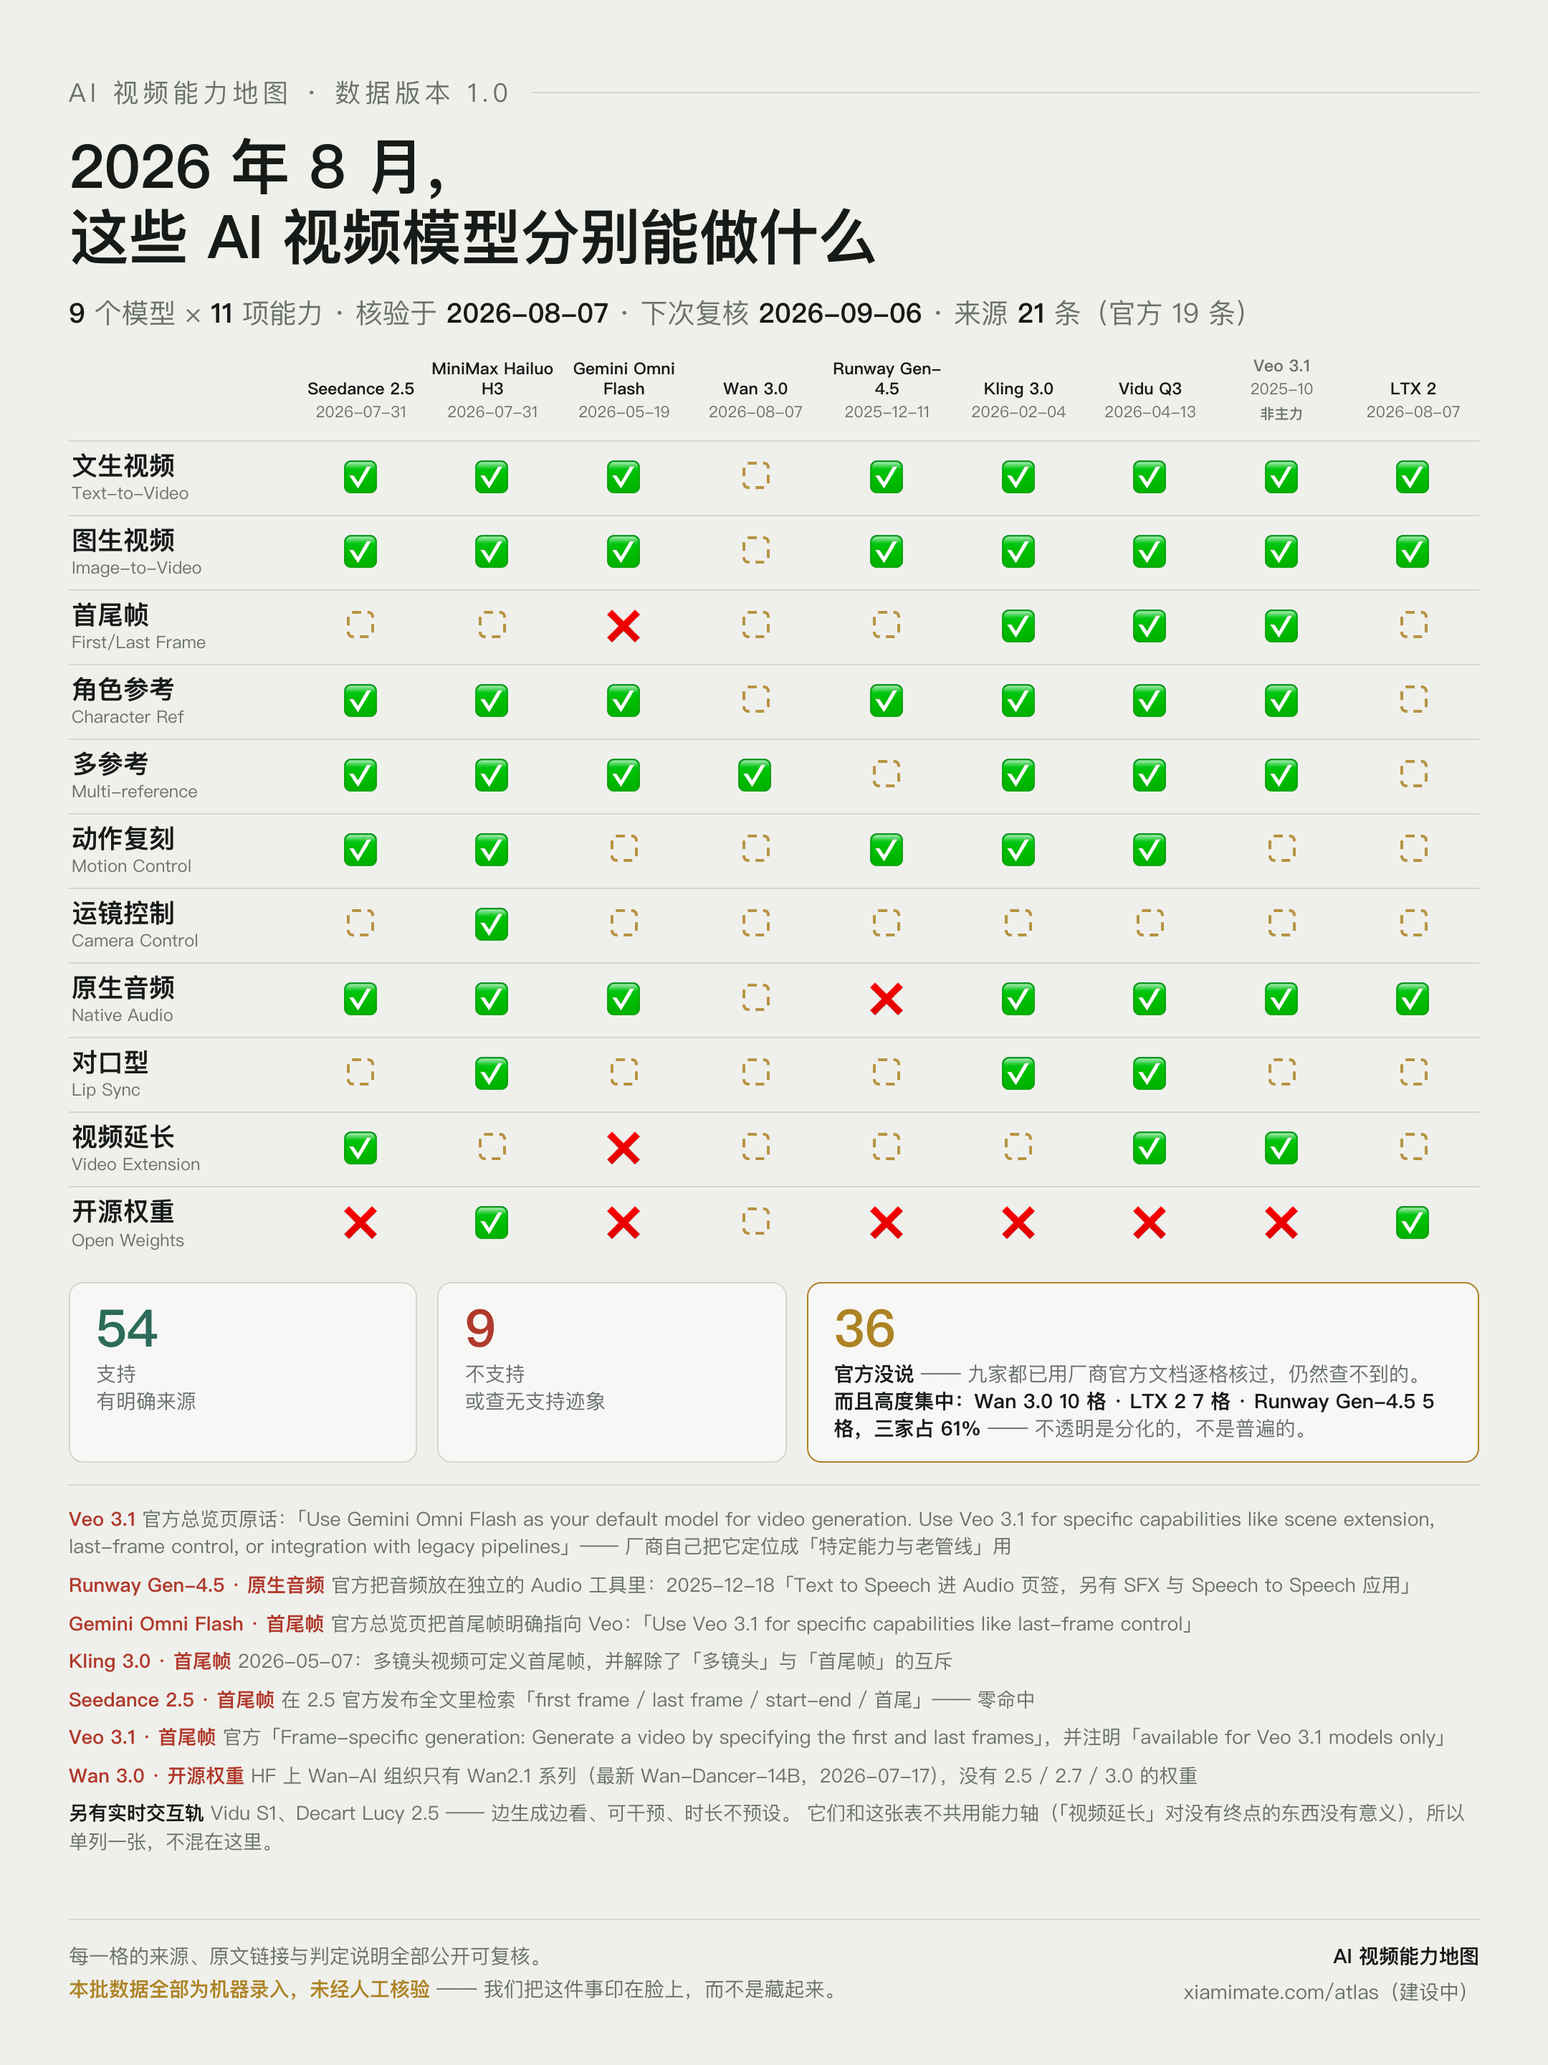
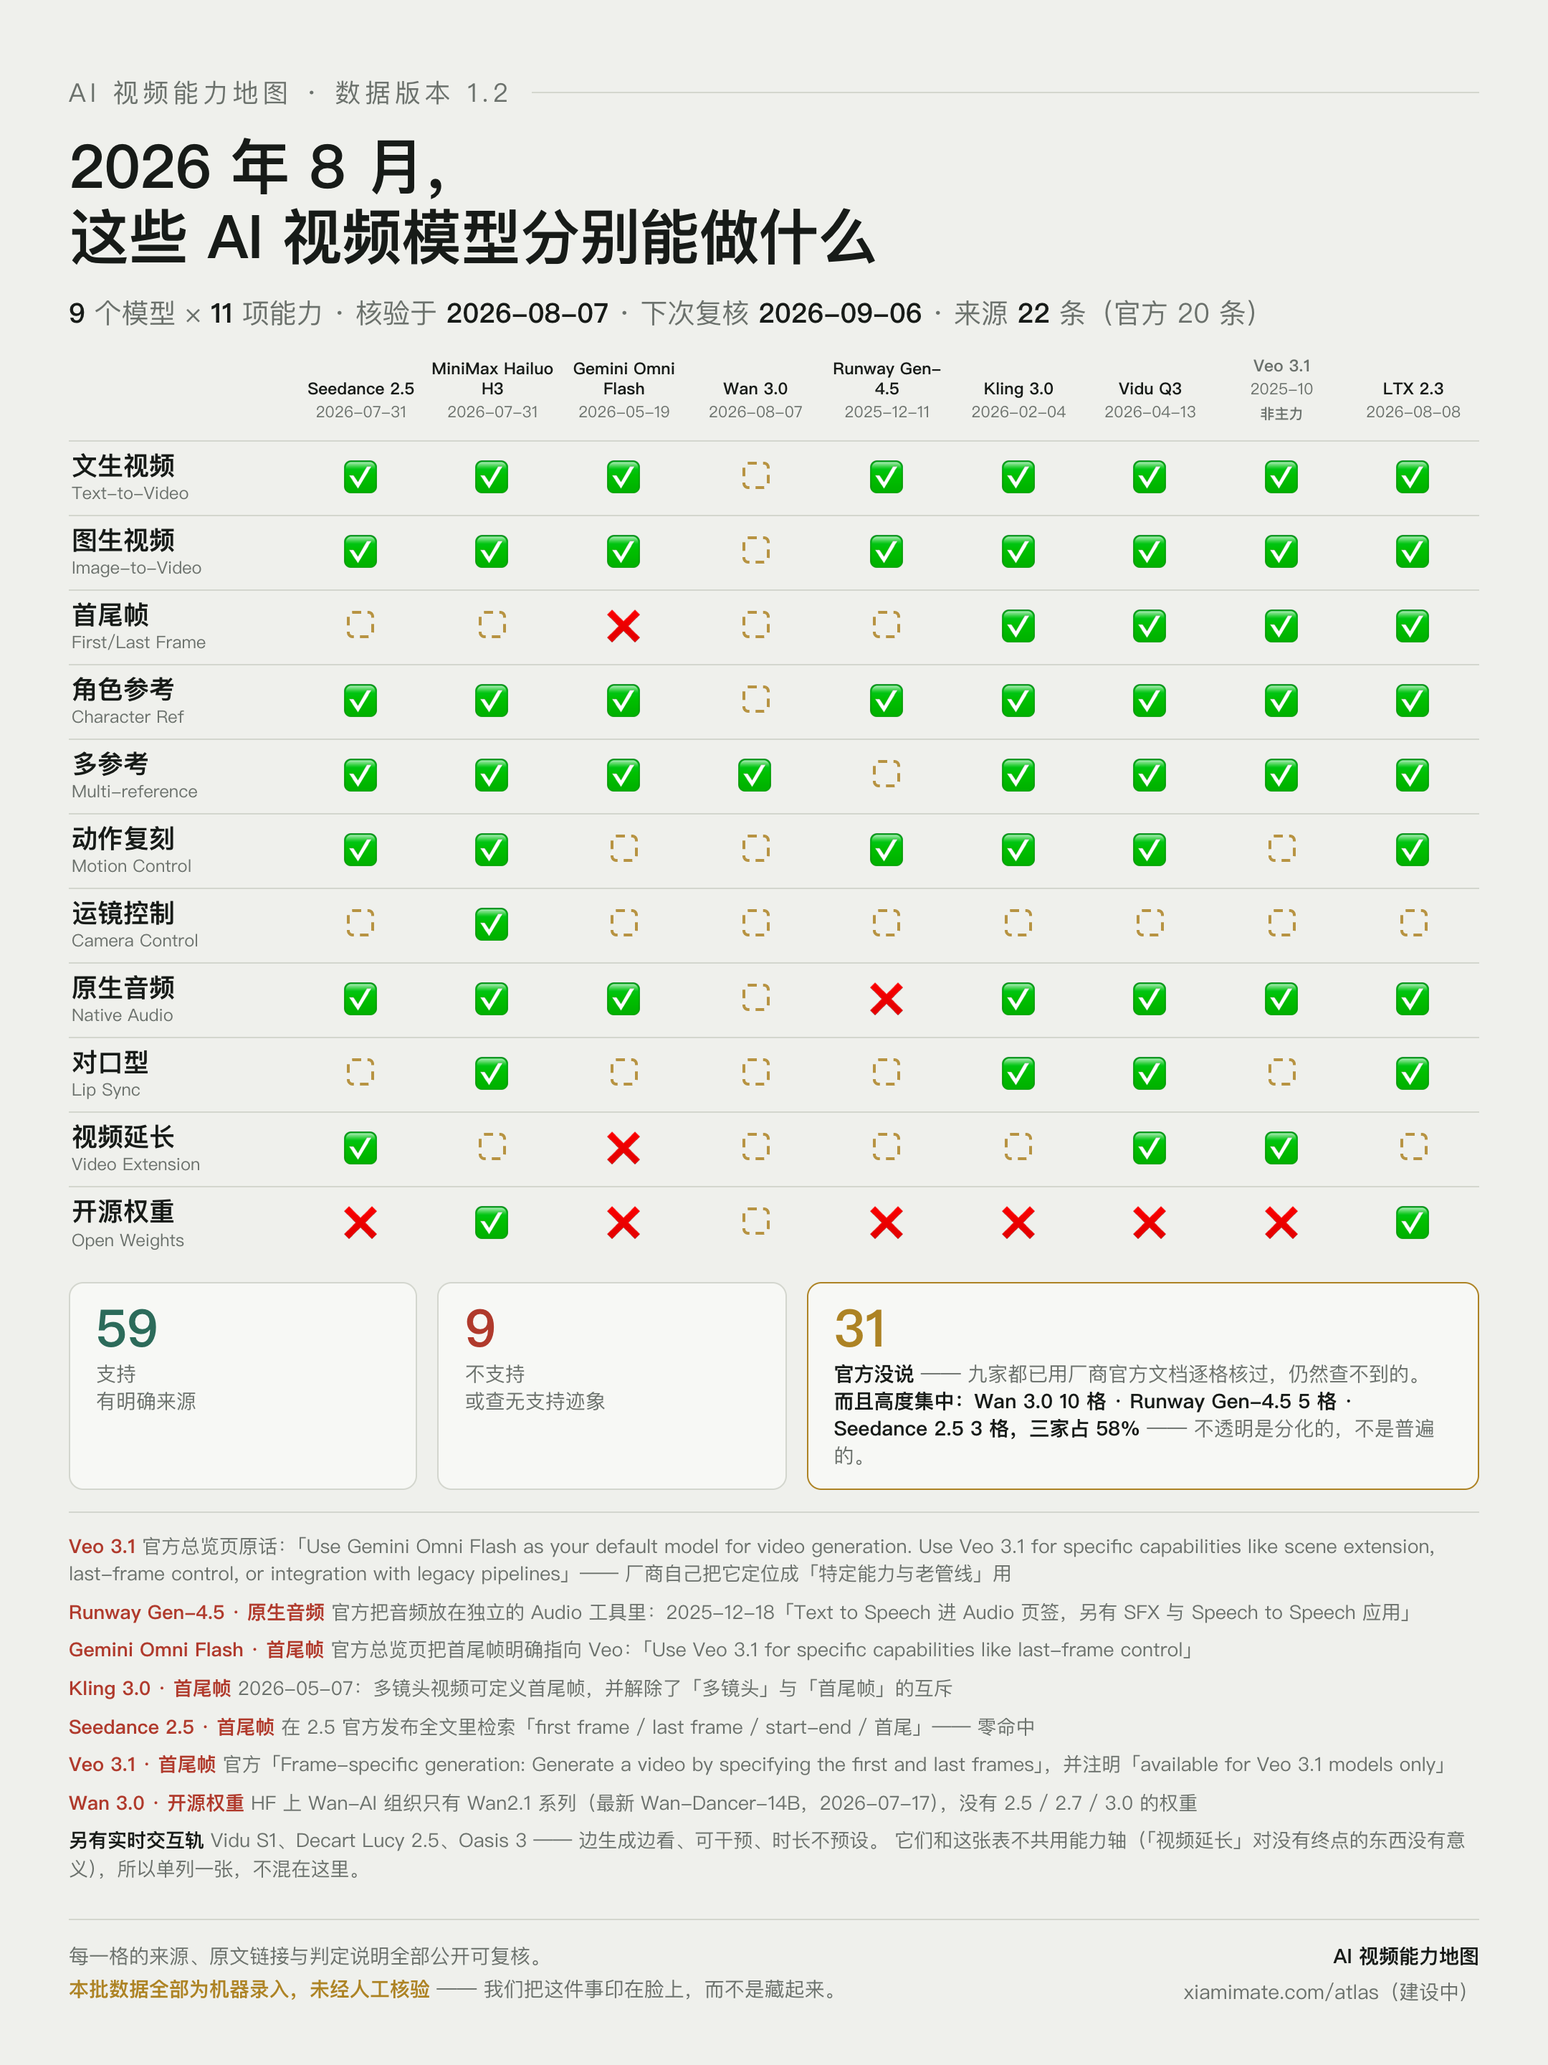
LTX 核完（收进来当天就发现版本不对）+ Lucy 2.5 重核
## LTX：7 个 ⬜ 里 5 个是真能力，全藏在别的名字里

| 我上一版 | 官方叫法 |
|---|---|
| 首尾帧 ⬜ | **KeyframeInterpolationPipeline**（在关键帧图像之间插值） |
| 角色参考 ⬜ | **IC-LoRA-Ingredients** |
| 多参考 ⬜ | IC-LoRA-Union-Control |
| 动作复刻 ⬜ | **IC-LoRA-Motion-Track-Control** |
| 对口型 ⬜ | **Dub-It**（改台词同时匹配说话人身份与口型） |

**Ingredients 正是我在别名表里给「角色参考」登记的叫法之一**（Google 用的词）——
ontology 规则六那步的钱回来了。这是同一个坑第三次出现，也是第一次没掉进去。

运镜仍是 ⬜：README 里 camera 出现 29 次，**全在提示词示例里**（「看向镜头」），
不是控制参数。不拿写提示词的建议冒充控制能力。

## 收进来当天就发现版本不对

我按 Lightricks/LTX-2 收录（↓40 万）。**Lightricks/LTX-2.3 ↓178 万，是它的 4 倍**，
才是当前主力。已升到 2.3，并把 Lightricks 的 HF 组织列表加进监视源 ——
**那个组织的仓库名本身就是能力清单**（IC-LoRA-Ingredients / Motion-Track-Control / DubIt）。

## Lucy 2.5

官网首屏「Real-time, infinite video」「把高保真视频编辑从离线渲染搬到实时交互」，
3 格从 ⬜ 转 ✅。realtime 轨现在 ✅7 ❌0 ⬜3。

## 一个要人拍板的边界，先记在 extended

Decart 还有第二个模型 **Oasis 3**：REALTIME INTERACTIVE WORLD MODEL FOR
PHYSICAL AI —— 为机器人、自动驾驶、制造、无人机做可交互物理环境。
按规则一它确实「输出动态影像」且是模型，该收；**但它的用途不是做内容**。
收进 realtime 主轨会让这条轨的坐标系从「创作」漂到「仿真」。

Claude-Session: https://claude.ai/code/session_01R7iRzZhJFtJipSCkRjnfST

diff --git a/assets/matrix-2026-08-07.html b/assets/matrix-2026-08-07.html
@@ -36,25 +36,25 @@
   footer .who{text-align:right;flex:none;color:var(--ink);font-weight:600}
   footer .who span{display:block;color:var(--muted);font-weight:400;margin-top:2px}
 </style></head><body>
-  <div class="eyebrow">AI 视频能力地图 · 数据版本 1.0</div>
+  <div class="eyebrow">AI 视频能力地图 · 数据版本 1.2</div>
   <h1>2026 年 8 月，<br />这些 AI 视频模型分别能做什么</h1>
   <p class="sub"><b>9</b> 个模型 × <b>11</b> 项能力 ·
-     核验于 <b>2026-08-07</b> · 下次复核 <b>2026-09-06</b> · 来源 <b>21</b> 条（官方 19 条）</p>
-  <table><thead><tr><th class="cap"></th><th><span class="mn ">Seedance 2.5</span><span class="mv">2026-07-31</span></th><th><span class="mn ">MiniMax Hailuo H3</span><span class="mv">2026-07-31</span></th><th><span class="mn ">Gemini Omni Flash</span><span class="mv">2026-05-19</span></th><th><span class="mn ">Wan 3.0</span><span class="mv">2026-08-07</span></th><th><span class="mn ">Runway Gen-4.5</span><span class="mv">2025-12-11</span></th><th><span class="mn ">Kling 3.0</span><span class="mv">2026-02-04</span></th><th><span class="mn ">Vidu Q3</span><span class="mv">2026-04-13</span></th><th><span class="mn old">Veo 3.1</span><span class="mv">2025-10</span><span class="st" style="color:var(--muted)">非主力</span></th><th><span class="mn ">LTX 2</span><span class="mv">2026-08-07</span></th></tr></thead><tbody><tr><th class="cap"><b>文生视频</b><span>Text-to-Video</span></th><td class="yes">✅</td><td class="yes">✅</td><td class="yes">✅</td><td class="unk"><i></i></td><td class="yes">✅</td><td class="yes">✅</td><td class="yes">✅</td><td class="yes">✅</td><td class="yes">✅</td></tr><tr><th class="cap"><b>图生视频</b><span>Image-to-Video</span></th><td class="yes">✅</td><td class="yes">✅</td><td class="yes">✅</td><td class="unk"><i></i></td><td class="yes">✅</td><td class="yes">✅</td><td class="yes">✅</td><td class="yes">✅</td><td class="yes">✅</td></tr><tr><th class="cap"><b>首尾帧</b><span>First/Last Frame</span></th><td class="unk"><i></i></td><td class="unk"><i></i></td><td class="no">❌</td><td class="unk"><i></i></td><td class="unk"><i></i></td><td class="yes">✅</td><td class="yes">✅</td><td class="yes">✅</td><td class="unk"><i></i></td></tr><tr><th class="cap"><b>角色参考</b><span>Character Ref</span></th><td class="yes">✅</td><td class="yes">✅</td><td class="yes">✅</td><td class="unk"><i></i></td><td class="yes">✅</td><td class="yes">✅</td><td class="yes">✅</td><td class="yes">✅</td><td class="unk"><i></i></td></tr><tr><th class="cap"><b>多参考</b><span>Multi-reference</span></th><td class="yes">✅</td><td class="yes">✅</td><td class="yes">✅</td><td class="yes">✅</td><td class="unk"><i></i></td><td class="yes">✅</td><td class="yes">✅</td><td class="yes">✅</td><td class="unk"><i></i></td></tr><tr><th class="cap"><b>动作复刻</b><span>Motion Control</span></th><td class="yes">✅</td><td class="yes">✅</td><td class="unk"><i></i></td><td class="unk"><i></i></td><td class="yes">✅</td><td class="yes">✅</td><td class="yes">✅</td><td class="unk"><i></i></td><td class="unk"><i></i></td></tr><tr><th class="cap"><b>运镜控制</b><span>Camera Control</span></th><td class="unk"><i></i></td><td class="yes">✅</td><td class="unk"><i></i></td><td class="unk"><i></i></td><td class="unk"><i></i></td><td class="unk"><i></i></td><td class="unk"><i></i></td><td class="unk"><i></i></td><td class="unk"><i></i></td></tr><tr><th class="cap"><b>原生音频</b><span>Native Audio</span></th><td class="yes">✅</td><td class="yes">✅</td><td class="yes">✅</td><td class="unk"><i></i></td><td class="no">❌</td><td class="yes">✅</td><td class="yes">✅</td><td class="yes">✅</td><td class="yes">✅</td></tr><tr><th class="cap"><b>对口型</b><span>Lip Sync</span></th><td class="unk"><i></i></td><td class="yes">✅</td><td class="unk"><i></i></td><td class="unk"><i></i></td><td class="unk"><i></i></td><td class="yes">✅</td><td class="yes">✅</td><td class="unk"><i></i></td><td class="unk"><i></i></td></tr><tr><th class="cap"><b>视频延长</b><span>Video Extension</span></th><td class="yes">✅</td><td class="unk"><i></i></td><td class="no">❌</td><td class="unk"><i></i></td><td class="unk"><i></i></td><td class="unk"><i></i></td><td class="yes">✅</td><td class="yes">✅</td><td class="unk"><i></i></td></tr><tr><th class="cap"><b>开源权重</b><span>Open Weights</span></th><td class="no">❌</td><td class="yes">✅</td><td class="no">❌</td><td class="unk"><i></i></td><td class="no">❌</td><td class="no">❌</td><td class="no">❌</td><td class="no">❌</td><td class="yes">✅</td></tr></tbody></table>
+     核验于 <b>2026-08-07</b> · 下次复核 <b>2026-09-06</b> · 来源 <b>22</b> 条（官方 20 条）</p>
+  <table><thead><tr><th class="cap"></th><th><span class="mn ">Seedance 2.5</span><span class="mv">2026-07-31</span></th><th><span class="mn ">MiniMax Hailuo H3</span><span class="mv">2026-07-31</span></th><th><span class="mn ">Gemini Omni Flash</span><span class="mv">2026-05-19</span></th><th><span class="mn ">Wan 3.0</span><span class="mv">2026-08-07</span></th><th><span class="mn ">Runway Gen-4.5</span><span class="mv">2025-12-11</span></th><th><span class="mn ">Kling 3.0</span><span class="mv">2026-02-04</span></th><th><span class="mn ">Vidu Q3</span><span class="mv">2026-04-13</span></th><th><span class="mn old">Veo 3.1</span><span class="mv">2025-10</span><span class="st" style="color:var(--muted)">非主力</span></th><th><span class="mn ">LTX 2.3</span><span class="mv">2026-08-08</span></th></tr></thead><tbody><tr><th class="cap"><b>文生视频</b><span>Text-to-Video</span></th><td class="yes">✅</td><td class="yes">✅</td><td class="yes">✅</td><td class="unk"><i></i></td><td class="yes">✅</td><td class="yes">✅</td><td class="yes">✅</td><td class="yes">✅</td><td class="yes">✅</td></tr><tr><th class="cap"><b>图生视频</b><span>Image-to-Video</span></th><td class="yes">✅</td><td class="yes">✅</td><td class="yes">✅</td><td class="unk"><i></i></td><td class="yes">✅</td><td class="yes">✅</td><td class="yes">✅</td><td class="yes">✅</td><td class="yes">✅</td></tr><tr><th class="cap"><b>首尾帧</b><span>First/Last Frame</span></th><td class="unk"><i></i></td><td class="unk"><i></i></td><td class="no">❌</td><td class="unk"><i></i></td><td class="unk"><i></i></td><td class="yes">✅</td><td class="yes">✅</td><td class="yes">✅</td><td class="yes">✅</td></tr><tr><th class="cap"><b>角色参考</b><span>Character Ref</span></th><td class="yes">✅</td><td class="yes">✅</td><td class="yes">✅</td><td class="unk"><i></i></td><td class="yes">✅</td><td class="yes">✅</td><td class="yes">✅</td><td class="yes">✅</td><td class="yes">✅</td></tr><tr><th class="cap"><b>多参考</b><span>Multi-reference</span></th><td class="yes">✅</td><td class="yes">✅</td><td class="yes">✅</td><td class="yes">✅</td><td class="unk"><i></i></td><td class="yes">✅</td><td class="yes">✅</td><td class="yes">✅</td><td class="yes">✅</td></tr><tr><th class="cap"><b>动作复刻</b><span>Motion Control</span></th><td class="yes">✅</td><td class="yes">✅</td><td class="unk"><i></i></td><td class="unk"><i></i></td><td class="yes">✅</td><td class="yes">✅</td><td class="yes">✅</td><td class="unk"><i></i></td><td class="yes">✅</td></tr><tr><th class="cap"><b>运镜控制</b><span>Camera Control</span></th><td class="unk"><i></i></td><td class="yes">✅</td><td class="unk"><i></i></td><td class="unk"><i></i></td><td class="unk"><i></i></td><td class="unk"><i></i></td><td class="unk"><i></i></td><td class="unk"><i></i></td><td class="unk"><i></i></td></tr><tr><th class="cap"><b>原生音频</b><span>Native Audio</span></th><td class="yes">✅</td><td class="yes">✅</td><td class="yes">✅</td><td class="unk"><i></i></td><td class="no">❌</td><td class="yes">✅</td><td class="yes">✅</td><td class="yes">✅</td><td class="yes">✅</td></tr><tr><th class="cap"><b>对口型</b><span>Lip Sync</span></th><td class="unk"><i></i></td><td class="yes">✅</td><td class="unk"><i></i></td><td class="unk"><i></i></td><td class="unk"><i></i></td><td class="yes">✅</td><td class="yes">✅</td><td class="unk"><i></i></td><td class="yes">✅</td></tr><tr><th class="cap"><b>视频延长</b><span>Video Extension</span></th><td class="yes">✅</td><td class="unk"><i></i></td><td class="no">❌</td><td class="unk"><i></i></td><td class="unk"><i></i></td><td class="unk"><i></i></td><td class="yes">✅</td><td class="yes">✅</td><td class="unk"><i></i></td></tr><tr><th class="cap"><b>开源权重</b><span>Open Weights</span></th><td class="no">❌</td><td class="yes">✅</td><td class="no">❌</td><td class="unk"><i></i></td><td class="no">❌</td><td class="no">❌</td><td class="no">❌</td><td class="no">❌</td><td class="yes">✅</td></tr></tbody></table>
   <div class="band">
-    <div class="big"><div class="n" style="color:var(--yes)">54</div><div class="l">支持<br />有明确来源</div></div>
+    <div class="big"><div class="n" style="color:var(--yes)">59</div><div class="l">支持<br />有明确来源</div></div>
     <div class="big"><div class="n" style="color:var(--no)">9</div><div class="l">不支持<br />或查无支持迹象</div></div>
     <div class="big" style="flex:2.1;border-color:var(--unk)">
-      <div class="n" style="color:var(--unk)">36</div>
+      <div class="n" style="color:var(--unk)">31</div>
       <div class="l"><b style="color:var(--ink)">官方没说</b> —— 九家都已用厂商官方文档逐格核过，仍然查不到的。<br />
-      <b style="color:var(--ink)">而且高度集中：Wan 3.0 10 格 · LTX 2 7 格 · Runway Gen-4.5 5 格，三家占 61%</b> —— 不透明是分化的，不是普遍的。</div>
+      <b style="color:var(--ink)">而且高度集中：Wan 3.0 10 格 · Runway Gen-4.5 5 格 · Seedance 2.5 3 格，三家占 58%</b> —— 不透明是分化的，不是普遍的。</div>
     </div>
   </div>
   <div class="notes">
     <p><b>Veo 3.1</b> <span>官方总览页原话：「Use Gemini Omni Flash as your default model for video generation. Use Veo 3.1 for specific capabilities like scene extension, last-frame control, or integration with legacy pipelines」—— 厂商自己把它定位成「特定能力与老管线」用</span></p>
     <p><b>Runway Gen-4.5 · 原生音频</b> <span>官方把音频放在独立的 Audio 工具里：2025-12-18「Text to Speech 进 Audio 页签，另有 SFX 与 Speech to Speech 应用」</span></p><p><b>Gemini Omni Flash · 首尾帧</b> <span>官方总览页把首尾帧明确指向 Veo：「Use Veo 3.1 for specific capabilities like last-frame control」</span></p><p><b>Kling 3.0 · 首尾帧</b> <span>2026-05-07：多镜头视频可定义首尾帧，并解除了「多镜头」与「首尾帧」的互斥</span></p><p><b>Seedance 2.5 · 首尾帧</b> <span>在 2.5 官方发布全文里检索「first frame / last frame / start-end / 首尾」—— 零命中</span></p><p><b>Veo 3.1 · 首尾帧</b> <span>官方「Frame-specific generation: Generate a video by specifying the first and last frames」，并注明「available for Veo 3.1 models only」</span></p><p><b>Wan 3.0 · 开源权重</b> <span>HF 上 Wan-AI 组织只有 Wan2.1 系列（最新 Wan-Dancer-14B，2026-07-17），没有 2.5 / 2.7 / 3.0 的权重</span></p>
     <p style="color:var(--muted)"><b style="color:var(--ink)">另有实时交互轨</b>
-      <span>Vidu S1、Decart Lucy 2.5 —— 边生成边看、可干预、时长不预设。
+      <span>Vidu S1、Decart Lucy 2.5、Oasis 3 —— 边生成边看、可干预、时长不预设。
       它们和这张表不共用能力轴（「视频延长」对没有终点的东西没有意义），所以单列一张，不混在这里。</span></p>
   </div>
   <footer>

diff --git a/data/candidates.md b/data/candidates.md
@@ -43,7 +43,7 @@
 > 不要照单全收，也不要因为混了噪音就整路丢掉：Lightricks、nvidia、zai-org
 > 都是这一路捞出来的，而它们在闭源榜上完全隐形。
 
-## 当前 Core（clip 轨 12/10，realtime 轨 2/10）
+## 当前 Core（clip 轨 12/10，realtime 轨 3/10）
 
 - `clip` Seedance 2.5（2026-07-31）
 - `clip` MiniMax Hailuo H3（2026-07-31）
@@ -56,9 +56,10 @@
 - `clip` Sora 2（2025-09） — **discontinued**
 - `realtime` Vidu S S1（2026-07-03）
 - `realtime` Decart Lucy Lucy 2.5（2026-08-07）
-- `clip` LTX 2（2026-08-07）
+- `clip` LTX 2.3（2026-08-08）
 - `clip` HappyHorse 1.1（2026-06）
 - `clip` SkyReels V4（2026-03）
+- `realtime` Oasis 3（2026-08-08）
 
 > clip 轨只剩 1 个空位。按规则四，再进新的就必须先踢一个 ——
 > 最该出去的是 **Sora 2**（已公告停服）。但**停服的模型不该从库里删**：
